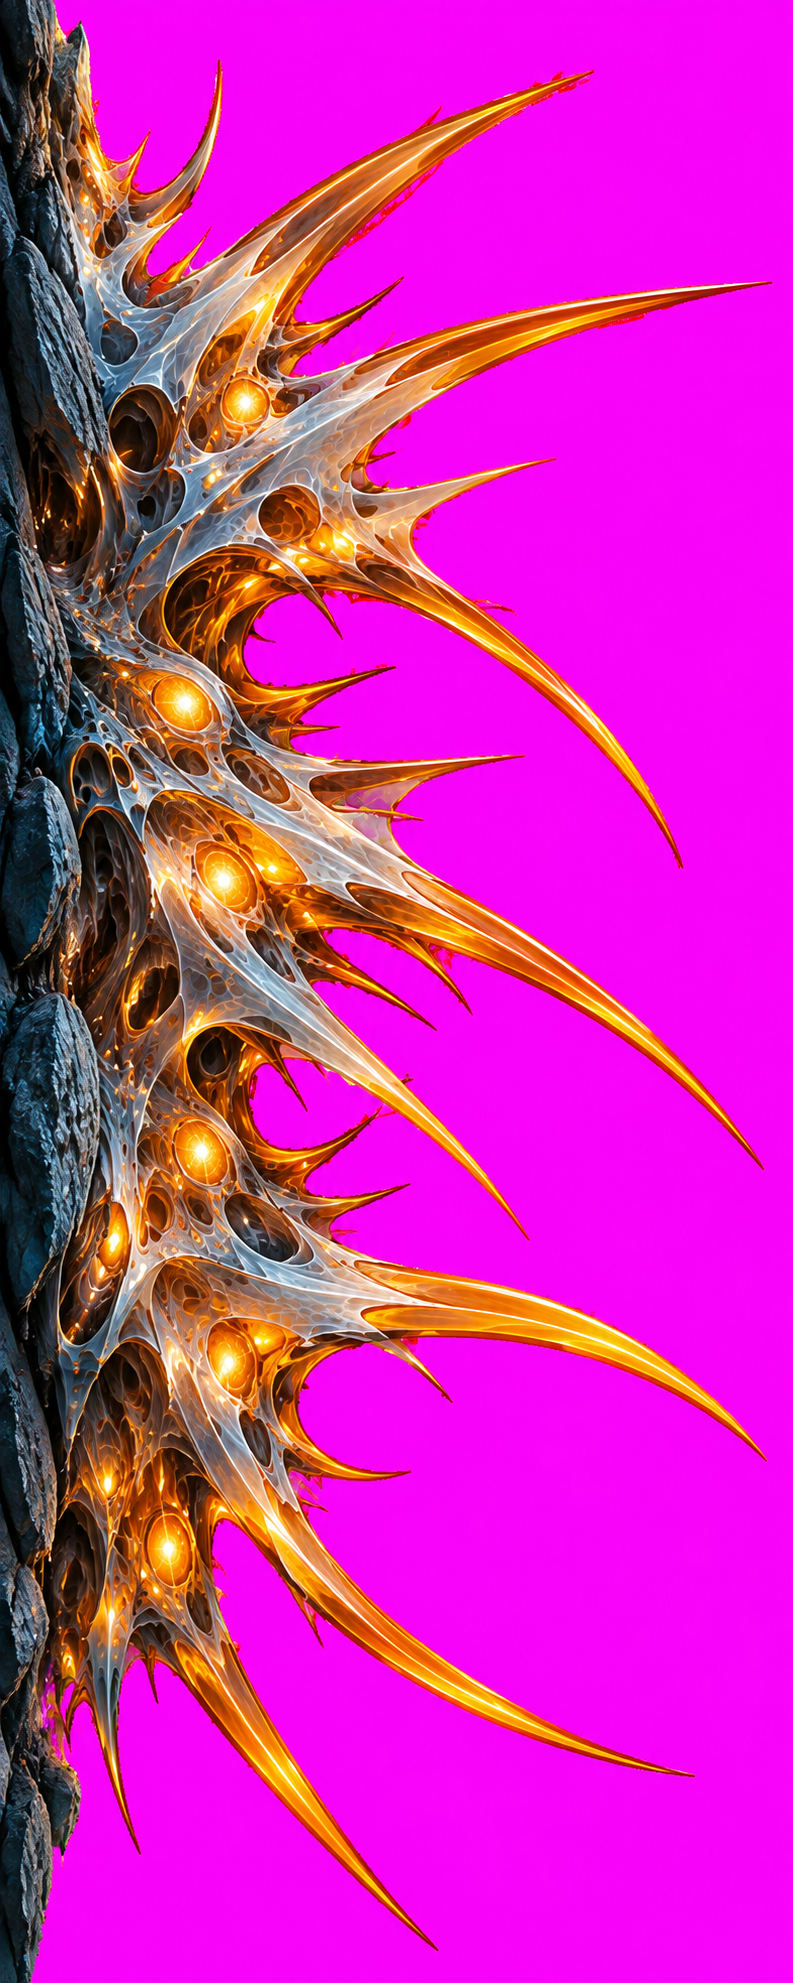
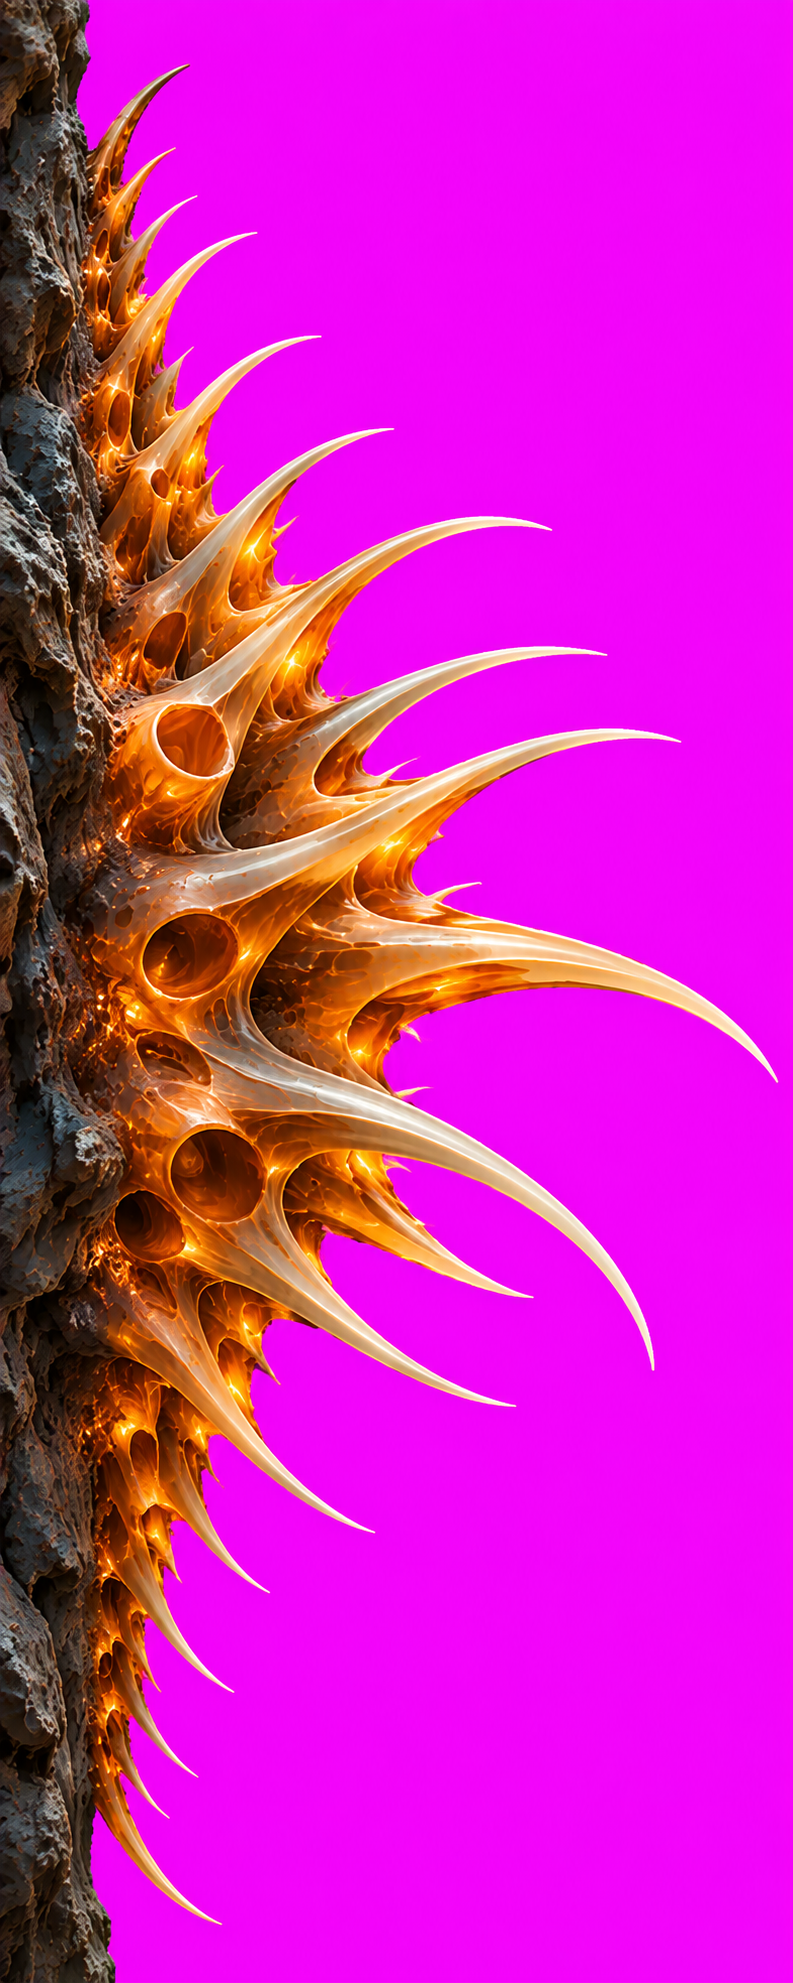
Четыре коралла и хитбокс по их собственной огибающей
Приняты все четыре: assets/creatures/coral_0N.png, 104x276 = 4x от
игрового бокса 26x69. Вид выбирается по номеру слота, один и тот же
слот всегда даёт один и тот же коралл.

Замеры на игровом размере 26x69, фон #0A1A26:

  №  яркость  максимум вылета  спрайт вне хитбокса
  1   +29.8      на 49% высоты        0.2%
  2   +36.8      на 46%               0.5%
  3   +44.6      на 45%               0.2%
  4   +44.1      на 38%               1.5%

Абзац SHAPE в промте сработал: у всех четырёх максимум вылета лёг на
середину высоты, хотя раньше это получалось случайно.

ГЛАВНОЕ. Все четыре провалили средний вылет: 10.6-12.7 px при цели
16.3. Стал разбираться и нашёл несправедливость, которая была и в уже
принятом коралле, а я её пропустил.

Хитбокс был синусом. Спрайт синус не заполняет — у коралла между шипами
щели. Значит рядом с наростом есть пустота, которая убивает. Замер:

  №  хитбокс за картинкой, макс / средний   строк с зазором >6 px
  1            13.0 / 5.8                          49%
  2            12.7 / 3.8                          22%
  3             9.7 / 4.2                          26%
  4            11.5 / 4.5                          38%
  принятый ранее коралл  12.8 / 2.8                19%

Хуже этого в такой игре нет ничего: игрок гибнет от пустоты и не
понимает, за что.

Синус заменён на огибающую каждого спрайта, снятую с него самого:
бегущий максимум по +-2 строки, чтобы хитбокс не проваливался в щели
[…]

diff --git a/js/game.js b/js/game.js
@@ -38,8 +38,10 @@ const Game = (() => {
     // Не ждём: фигуры рисуются, пока картинки едут. Размеры отдаём сразу,
     // чтобы уменьшенные копии готовились при загрузке, а не в кадре
     Sprites.load([
-      { name: 'coral_01', w: CONFIG.GROWTH.MAX_REACH, h: Growth.SPAN_M * PX_PER_M },
-      { name: 'coral_01', w: CONFIG.GROWTH.MAX_REACH, h: Growth.SPAN_M * PX_PER_M, flip: true },
+      ...['coral_01', 'coral_02', 'coral_03', 'coral_04'].flatMap(n => [
+        { name: n, w: CONFIG.GROWTH.MAX_REACH, h: Growth.SPAN_M * PX_PER_M },
+        { name: n, w: CONFIG.GROWTH.MAX_REACH, h: Growth.SPAN_M * PX_PER_M, flip: true },
+      ]),
       { name: 'razor_01', h: CONFIG.SWARM.RADIUS * 2, swim: true },
       { name: 'wall_rock', h: 1, tint: 1.00 },
       { name: 'wall_rock', h: 1, tint: 0.55 },   // второй слой, ломает повтор
@@ -317,9 +319,8 @@ const Game = (() => {
     // нароста. Дальше он уменьшается не более чем вдвое, а такое
     // уменьшение браузер делает без потерь
     const spanPx = Growth.SPAN_M * PX_PER_M;
-    const img = Sprites.at('coral_01', CONFIG.GROWTH.MAX_REACH, spanPx, false);
-    const mir = Sprites.at('coral_01', CONFIG.GROWTH.MAX_REACH, spanPx, true);
-    if (!img) ctx.fillStyle = '#2d5a3a';
+    const ready = Sprites.raw('coral_01') !== null;
+    if (!ready) ctx.fillStyle = '#2d5a3a';
 
     for (let py = 0; py <= CONFIG.CANVAS_H; py += STEP) {
       const d = depth + py / PX_PER_M;
@@ -330,7 +331,7 @@ const Game = (() => {
         const reach = left ? w.growL : w.growR;
         if (reach <= 0.5) continue;
 
-        if (!img) {                                   // откат: пока не загрузилось
+        if (!ready) {                                 // откат: пока не загрузилось
           ctx.fillRect(left ? w.left : w.right - reach, py, reach, STEP);
           continue;
         }
@@ -338,20 +339,33 @@ const Game = (() => {
         const si = Growth.slotInfo(d, left ? 'left' : 'right');
         if (!si) continue;
 
-        const key = (left ? 'L' : 'R') + si.slot;
-        let ref = _reachCache.get(key);
-        if (ref === undefined) {
-          const wc = Canyon.getWalls(si.centerDepth);
-          ref = left ? wc.growL : wc.growR;
-          _reachCache.set(key, ref);
-        }
-        if (ref <= 0.5) continue;
+        // Вид коралла берём у Growth, а не выбираем заново: хитбокс уже
+        // посчитан по огибающей ЭТОГО вида, и вторая монетка развела бы
+        // картинку со смертью
+        const name = 'coral_0' + (Growth.variantOf(si.slot) + 1);
+        const img = Sprites.at(name, CONFIG.GROWTH.MAX_REACH, spanPx, false);
+        const mir = Sprites.at(name, CONFIG.GROWTH.MAX_REACH, spanPx, true);
+        if (!img || !mir) continue;
 
-        // Затухание к границам фазы середина нароста не видит — она своя
-        // на весь нарост. Возвращаем его отношением фактического хитбокса
-        // к идеальному синусу на этой же глубине.
-        const s = Math.sin(Math.PI * si.t);
-        const dw = s > 0.05 ? ref * Math.min(1, reach / (ref * s)) : ref;
+        const key = (left ? 'L' : 'R') + si.slot;
+        let full = _reachCache.get(key);
+        if (full === undefined) {
+          const wc = Canyon.getWalls(si.centerDepth);
+          const ref = left ? wc.growL : wc.growR;
+          // ref — вылет в середине нароста, а у огибающей там не
+          // обязательно максимум. Делим на форму и получаем полную
+          // ширину спрайта, ту самую, что отвечает MAX_REACH
+          const p0 = Growth.shapeAt(si.slot, 0.5);
+          full = p0 > 0.05 ? ref / p0 : ref;
+          _reachCache.set(key, full);
+        }
+        if (full <= 0.5) continue;
+
+        // Сужение к краям даёт сам силуэт, поэтому ширину полосы берём
+        // полную, деля хитбокс на форму. Так картинка повторяет затухание
+        // к границам фазы, не применяя форму дважды.
+        const pt = Growth.shapeAt(si.slot, si.t);
+        const dw = pt > 0.05 ? Math.min(full, reach / pt) : full;
 
         const srcY = si.t * img.height;
         const srcH = Math.max(1, (STEP / spanPx) * img.height);

diff --git a/js/growth.js b/js/growth.js
@@ -24,6 +24,24 @@ const Growth = (() => {
     return s - Math.floor(s);
   }
 
+  // Какой из четырёх кораллов растёт в этом слоте. Один и тот же слот
+  // всегда даёт один и тот же вид — иначе нарост менял бы облик и форму
+  // хитбокса на ходу.
+  function variantOf(slot) {
+    return Math.floor(_hash(slot * 11.31) * G.PROFILES.length) % G.PROFILES.length;
+  }
+
+  // Вылет как доля от полного, по огибающей конкретного спрайта.
+  // Линейно между 25 узлами: хитбокс обязан совпадать с картинкой, а не
+  // быть похожим на неё.
+  function _profile(v, t) {
+    const P = G.PROFILES[v];
+    const n = P.length - 1;
+    const x = Math.max(0, Math.min(n, t * n));
+    const i = Math.min(n - 1, Math.floor(x));
+    return P[i] + (P[i + 1] - P[i]) * (x - i);
+  }
+
   // Плотность растёт с глубиной, но не превышает потолок фазы
   function _densityAt(depth, phase) {
     const base = G.DENSITY[phase] ?? 0;
@@ -62,7 +80,7 @@ const Growth = (() => {
     const W = G.WIDTH_FRAC;
     const t = (local - (1 - W) / 2) / W;              // 0..1 внутри нароста
     if (t <= 0 || t >= 1) return 0;
-    const shape = Math.sin(t * Math.PI);              // 0 -> 1 -> 0
+    const shape = _profile(variantOf(slot), t);       // огибающая своего спрайта
     const size = 0.45 + 0.55 * _hash(slot * 3.7);     // разные по величине
     return G.MAX_REACH * size * shape * fade;
   }
@@ -90,9 +108,18 @@ const Growth = (() => {
     const W = G.WIDTH_FRAC;
     const t = (local - (1 - W) / 2) / W;
     if (t <= 0 || t >= 1) return null;
-    return { slot: n, centerDepth: (n + 0.5) * G.SPACING, t };
+    // Ключ слота обязан совпадать с тем, что считает reachAt: у правой
+    // стены своя серия, и без сдвига картинка берёт один вид коралла, а
+    // хитбокс — другой. Ровно это и показал замер: расхождение 10 px
+    // на правой стене при нуле на левой.
+    return { slot: n + (side === 'left' ? 0 : 7919),
+             centerDepth: (n + 0.5) * G.SPACING, t };
   }
 
-  return { reachAt, totalReachAt, slotInfo, SPAN_M };
+  // Форма нароста в этой точке — та же, что использует хитбокс.
+  // Отрисовка обязана спрашивать её здесь, а не считать по-своему.
+  function shapeAt(slot, t) { return _profile(variantOf(slot), t); }
+
+  return { reachAt, totalReachAt, slotInfo, variantOf, shapeAt, SPAN_M };
 
 })();

diff --git a/js/config.js b/js/config.js
@@ -179,6 +179,28 @@ const CONFIG = {
     // существо. С долей 0.5 нарост занимает 69 px и читается как отдельная
     // тварь, а плотность остаётся прежней — по одной на слот.
     WIDTH_FRAC: 0.5,
+    // ОГИБАЮЩИЕ ЧЕТЫРЁХ КОРАЛЛОВ. Доля вылета по высоте нароста, 25 точек
+    // сверху вниз. Это НЕ украшение и не подгонка под картинку — это
+    // исправление настоящей несправедливости.
+    //
+    // Раньше хитбокс был синусом, а спрайт синус не заполняет: у коралла
+    // между шипами щели. Замер показал, что хитбокс торчит за видимый
+    // силуэт до 13 px, а в среднем на 4-6 — то есть игрок погибал от
+    // пустоты рядом с наростом. Хуже этого в такой игре нет ничего.
+    //
+    // Числа сняты с самих спрайтов: бегущий максимум по +-2 строки, чтобы
+    // хитбокс не проваливался в щели, и сглаживание. После замены синуса
+    // на них невидимая опасность упала с 13.0 до 8.4 px в максимуме и с
+    // 5.8 до 1.6 px в среднем, а спрайта за хитбоксом осталось около 1%.
+    //
+    // ВАЖНО: правя coral_0N.png, надо пересчитать и его строку. Иначе
+    // картинка и смерть разъедутся молча.
+    PROFILES: [
+      [0.000, 0.107, 0.140, 0.211, 0.258, 0.352, 0.535, 0.529, 0.661, 0.774, 0.608, 0.716, 1.000, 0.921, 0.683, 0.828, 0.890, 0.591, 0.376, 0.291, 0.197, 0.163, 0.130, 0.158, 0.000],
+      [0.000, 0.005, 0.051, 0.188, 0.241, 0.345, 0.521, 0.492, 0.586, 0.774, 0.892, 0.963, 1.000, 0.905, 0.896, 0.947, 0.880, 0.612, 0.668, 0.613, 0.357, 0.167, 0.007, 0.021, 0.000],
+      [0.000, 0.052, 0.089, 0.229, 0.361, 0.473, 0.544, 0.586, 0.735, 0.845, 0.950, 0.947, 1.000, 0.918, 0.851, 0.710, 0.574, 0.529, 0.452, 0.333, 0.231, 0.129, 0.087, 0.081, 0.000],
+      [0.000, 0.036, 0.265, 0.421, 0.633, 0.638, 0.800, 0.846, 0.975, 0.974, 0.858, 0.879, 1.000, 0.900, 0.797, 0.696, 0.597, 0.466, 0.353, 0.236, 0.147, 0.096, 0.134, 0.060, 0.000],
+    ],
     DEPTH_RAMP: 2500,        // на какой глубине плотность выходит на максимум
   },
 

diff --git a/js/sprites.js b/js/sprites.js
@@ -27,6 +27,9 @@ const Sprites = (() => {
 
   const LIST = {
     coral_01:  'assets/creatures/coral_01.png',
+    coral_02:  'assets/creatures/coral_02.png',
+    coral_03:  'assets/creatures/coral_03.png',
+    coral_04:  'assets/creatures/coral_04.png',
     razor_01:  'assets/creatures/razor_01.png',
     wall_rock: 'assets/env/wall_rock.webp',
   };
